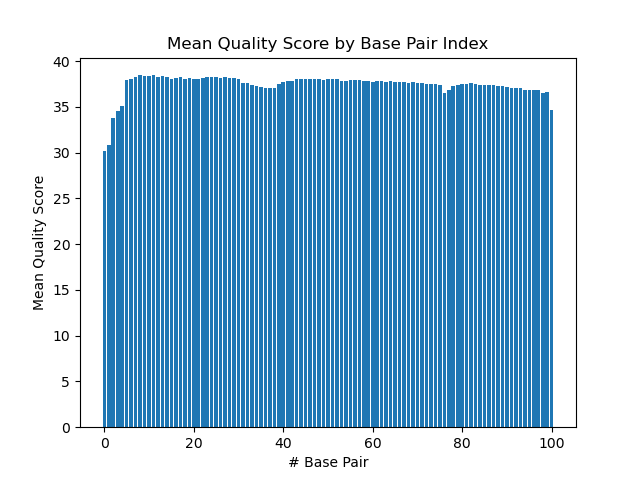
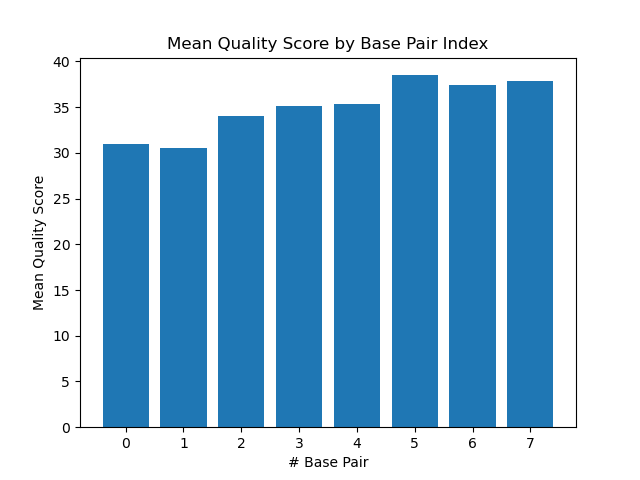
cleaning up naming conventions and test file locations

diff --git a/Assignment-the-first/plot_qscores.py b/Assignment-the-first/plot_qscores.py
@@ -50,7 +50,7 @@ def main():
         plt.title("Mean Quality Score by Base Pair Index")
         plt.xlabel("# Base Pair")
         plt.ylabel("Mean Quality Score")
-        plt.savefig(f'R{read_num}.png')
+        plt.savefig(f'read{read_num+1}.png')
         plt.cla()
         
 
